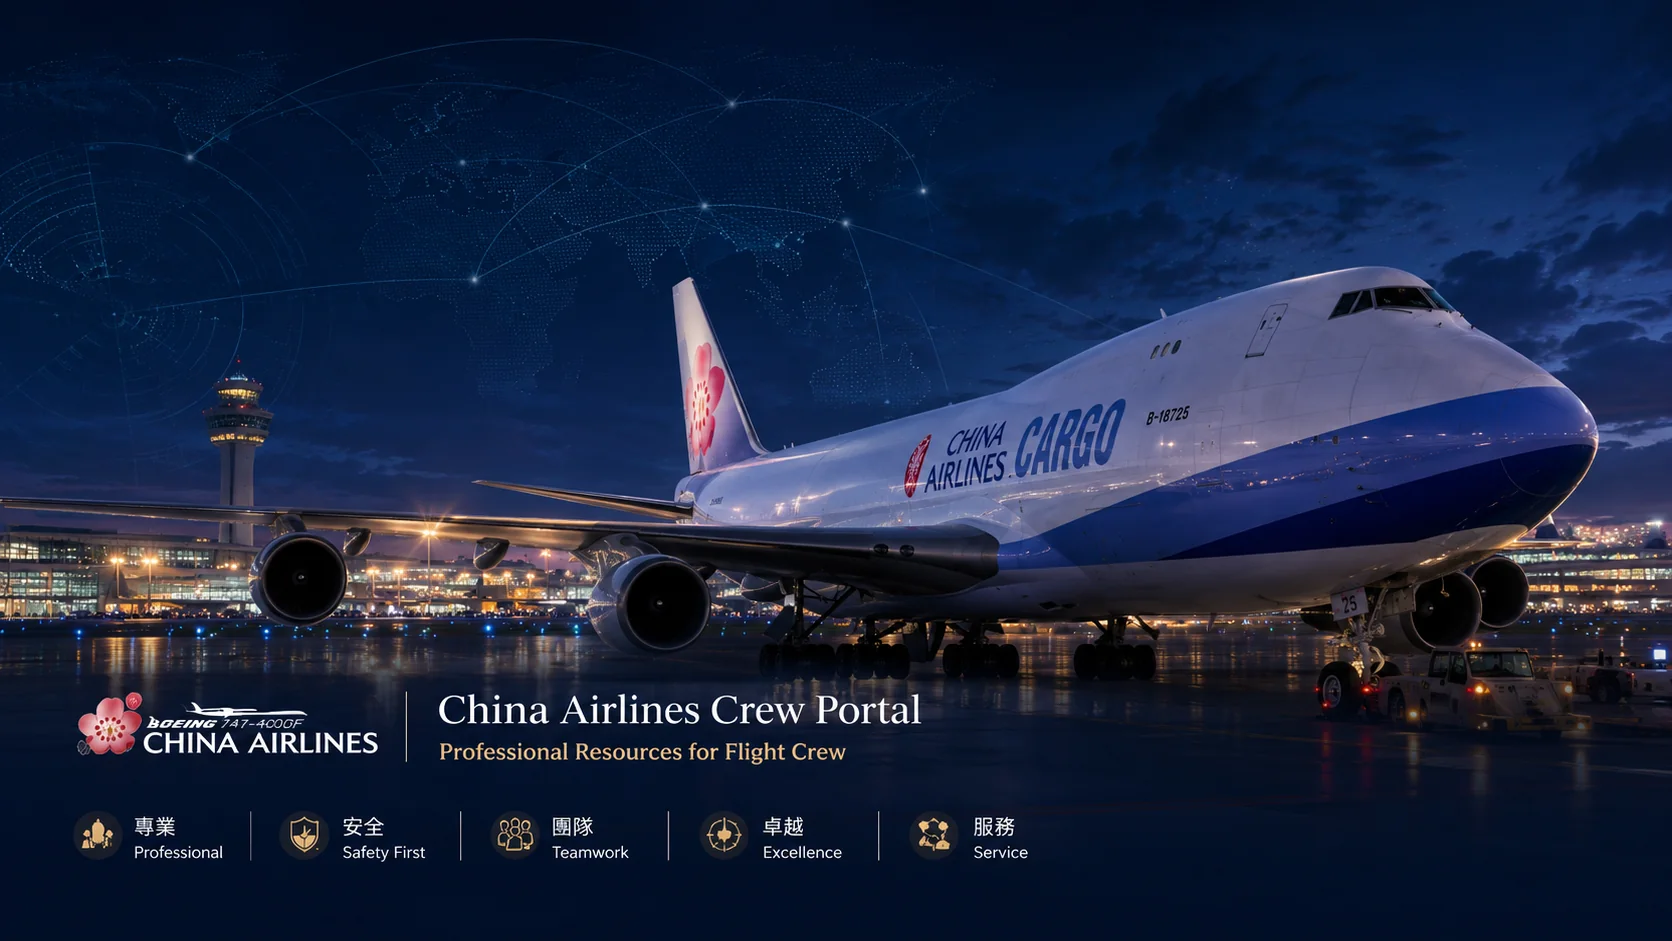
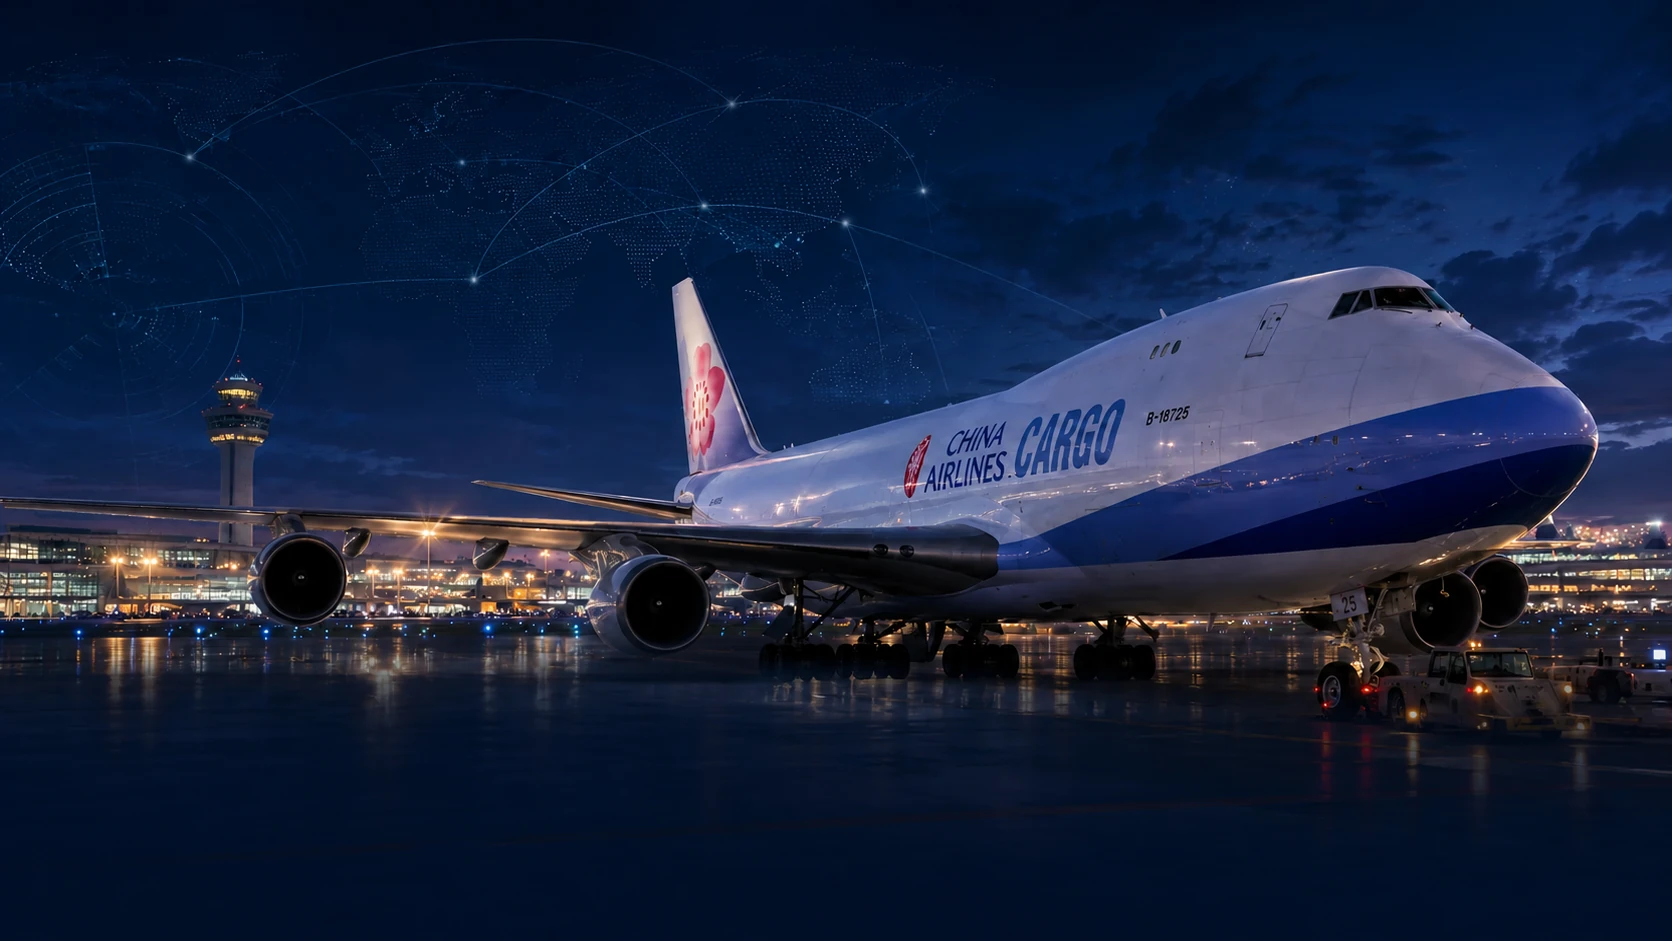
Remove embedded Hero text

diff --git a/css/style.css b/css/style.css
@@ -24,7 +24,7 @@ body::after{content:"";position:fixed;inset:0;pointer-events:none;background-ima
 .header-time{display:flex;align-items:center;gap:11px;border-left:1px solid rgba(255,255,255,.18);padding-left:20px;color:#eef6ff;white-space:nowrap}
 .clock-icon{width:34px;height:34px;border-radius:50%;border:1px solid rgba(255,255,255,.35);display:grid;place-items:center;color:#b9dcff}
 .time-lines{font-size:13px;line-height:1.55;color:#dceaff}
-.hero{min-height:760px;padding-top:84px;background-image:linear-gradient(90deg,rgba(1,7,15,.48) 0%,rgba(1,7,15,.30) 36%,rgba(1,7,15,.08) 66%,rgba(1,7,15,.02) 100%),linear-gradient(180deg,rgba(2,8,16,0),rgba(2,8,16,.28) 94%),url("../images/hero.webp");background-size:cover;background-position:center top;position:relative;overflow:hidden;border-bottom:1px solid rgba(255,255,255,.10)}
+.hero{min-height:760px;padding-top:84px;background-image:linear-gradient(90deg,rgba(1,7,15,.48) 0%,rgba(1,7,15,.30) 36%,rgba(1,7,15,.08) 66%,rgba(1,7,15,.02) 100%),linear-gradient(180deg,rgba(2,8,16,0),rgba(2,8,16,.28) 94%),url("../images/hero.webp?v=20260727-1750");background-size:cover;background-position:center top;position:relative;overflow:hidden;border-bottom:1px solid rgba(255,255,255,.10)}
 .hero::before{content:"";position:absolute;inset:0;background:radial-gradient(ellipse at 44% 6%,rgba(104,189,255,.10),transparent 42%),linear-gradient(180deg,transparent 70%,rgba(3,9,20,.55) 100%);pointer-events:none}
 .hero-grid{position:relative;z-index:1;display:grid;grid-template-columns:1fr;align-content:start;min-height:676px;padding:92px 0 34px}
 .hero-copy{max-width:720px}

diff --git a/index.html b/index.html
@@ -13,7 +13,7 @@
     document.documentElement.dataset.heroStyle = ["1","2","3"].includes(style) ? style : "1";
   }());
 </script>
-<link href="css/style.css?v=8.1.9" rel="stylesheet"/>
+<link href="css/style.css?v=8.2.15" rel="stylesheet"/>
 </head>
 <body>
 <main id="top">
@@ -289,7 +289,7 @@
           <div><b>ARINC route</b><span id="diagArincRoute">--</span></div>
           <div><b>ARINC HTTP</b><span id="diagArincHttp">--</span></div>
           <div><b>Browser cache</b><span id="diagCache">No-store requests</span></div>
-          <div><b>Version</b><span id="diagVersion">v8.2.14 · 20260727-1736</span></div>
+          <div><b>Version</b><span id="diagVersion">v8.2.15 · 20260727-1750</span></div>
         </div>
       </details>
     </details>
@@ -302,8 +302,8 @@
       <span>China Airlines Crew Portal</span>
     </div>
     <div class="footer-version" aria-label="Version information">
-      <span class="version-pill" id="footerVersion">Version v8.2.14</span>
-      <span id="footerBuild">Build 20260727-1736</span>
+      <span class="version-pill" id="footerVersion">Version v8.2.15</span>
+      <span id="footerBuild">Build 20260727-1750</span>
       <span>Designed for Flight Crew</span>
     </div>
   </div>
@@ -311,7 +311,7 @@
 <script src="js/app-1.js?v=6.4.2"></script>
 <script src="js/app-2.js?v=6.4.2"></script>
 <script src="js/app-3.js?v=6.5.2"></script>
-<script src="js/app-4.js?v=20260727-1736"></script>
+<script src="js/app-4.js?v=20260727-1750"></script>
 <script src="js/airport-mrt.js?v=8.0.0"></script>
 </body>
 </html>

diff --git a/js/app-4.js b/js/app-4.js
@@ -1,6 +1,6 @@
 (function(){
-  const VERSION = "8.2.14";
-  const BUILD = "20260727-1736";
+  const VERSION = "8.2.15";
+  const BUILD = "20260727-1750";
   const DEFAULT_FLIGHT_AIRLINE = "CI";
   const RAW_BASE="https://raw.githubusercontent.com/B744F/crewportal/main/data/";
   const FLIGHT_GATE_API="https://flightdeck-api.201505-login.workers.dev/api/flight-gate";

diff --git a/CHANGELOG.md b/CHANGELOG.md
@@ -1,3 +1,9 @@
+## v8.2.15 — 2026-07-27
+
+- Removed the embedded lower Hero title, subtitle, logo, and value icons to reduce visual interference.
+- Preserved the original Hero image as `images/hero-original.webp`.
+- Added Hero image cache-busting and updated the portal version/build identifiers.
+
 ## Operational reliability update — 2026-07-25
 
 - Added retry and timeout handling to the official Taoyuan flight-gate snapshot workflow.

diff --git a/DEPLOY.md b/DEPLOY.md
@@ -1,4 +1,4 @@
-# FlightDeck Crew Portal v8.2.14 部署
+# FlightDeck Crew Portal v8.2.15 部署
 
 ## 部署內容
 
@@ -13,7 +13,7 @@
 
 ```json
 {
-  "portalVersion": "v8.2.14",
+  "portalVersion": "v8.2.15",
   "workerVersion": "2.8.28",
   "timetableParser": "structured-official"
 }
